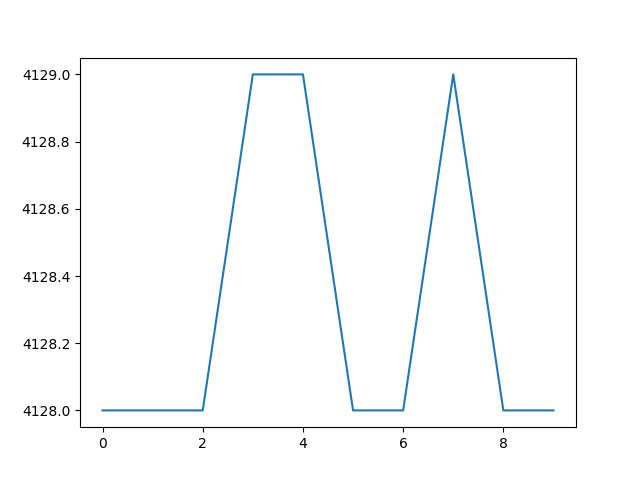
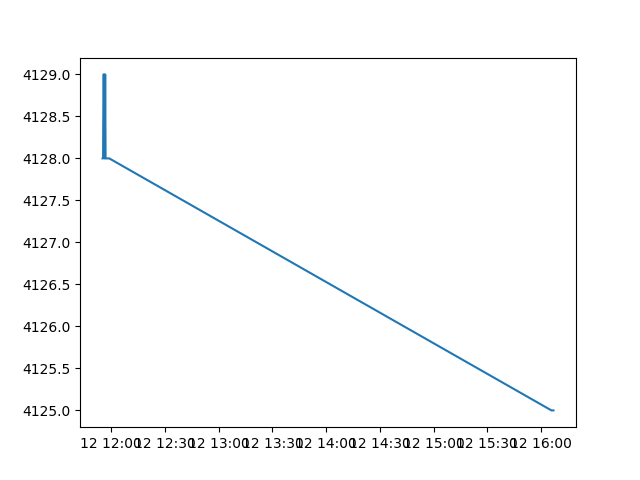
Changed ID to timestamp in plot

diff --git a/tsetmcLive.py b/tsetmcLive.py
@@ -13,15 +13,16 @@ logger = Logger()
 logger.log("Initializing")
 
 def save()-> None:
-    logger("Saving")
+    logger.log("Saving")
     pyplot.clf()
 
+    x = numpy.array([datetime.fromtimestamp(sub['timestamp']) for sub in history])
     y = numpy.array([sub["price"] for sub in history])
 
-    pyplot.plot(y)
+    pyplot.plot(x, y)
     pyplot.savefig(f"out/{OUT}-{date}.png")
 
-    file = open(f"out/{OUT}-{date}", 'w')
+    file = open(f"out/{OUT}-{date}.json", 'w')
     file.write(dumps(history))
     file.close()
     logger.done()
